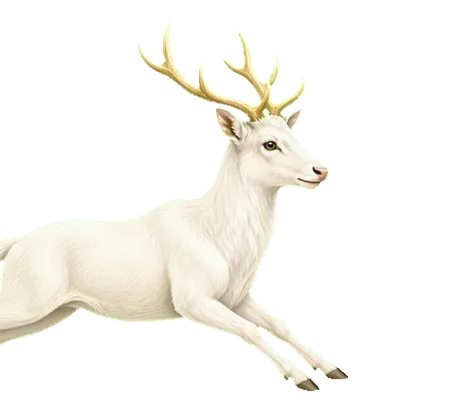
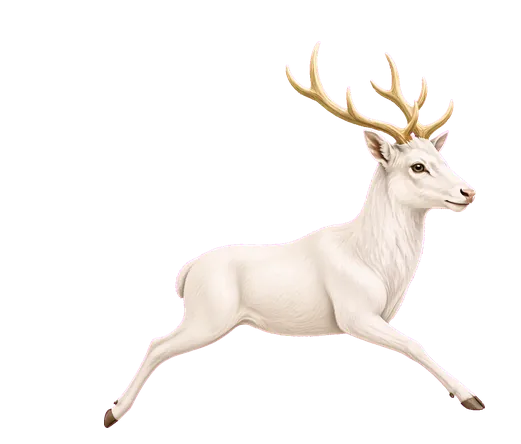
Doplň jelenovi celý zadek v běhu
Stávající snímky mají dokončený zadek a zadní nohy, ne oříznutou kresbu.

Changed region(s): [[0.0, 0.0584, 0.9414, 0.9635]]

diff --git a/src/game/runner.ts b/src/game/runner.ts
@@ -1038,7 +1038,7 @@ export class Runner {
 
   private loadFramesCounted(name: string, count = 4) {
     // Bradka je pryč ze snímků. Staré webp prohlížeč drží 4 hodiny, verze to obejde.
-    const v = name === "stag-run" ? "?v=7" : name === "run" || name === "idle" || name === "look" ? "?v=5" : "";
+    const v = name === "stag-run" ? "?v=8" : name === "run" || name === "idle" || name === "look" ? "?v=5" : "";
     return Promise.all(
       Array.from({ length: count }, (_, i) => this.loadCounted(publicUrl(`/game/${name}/${i}.webp${v}`))),
     ).then((frames) => frames.filter((frame): frame is HTMLImageElement => frame !== null));
